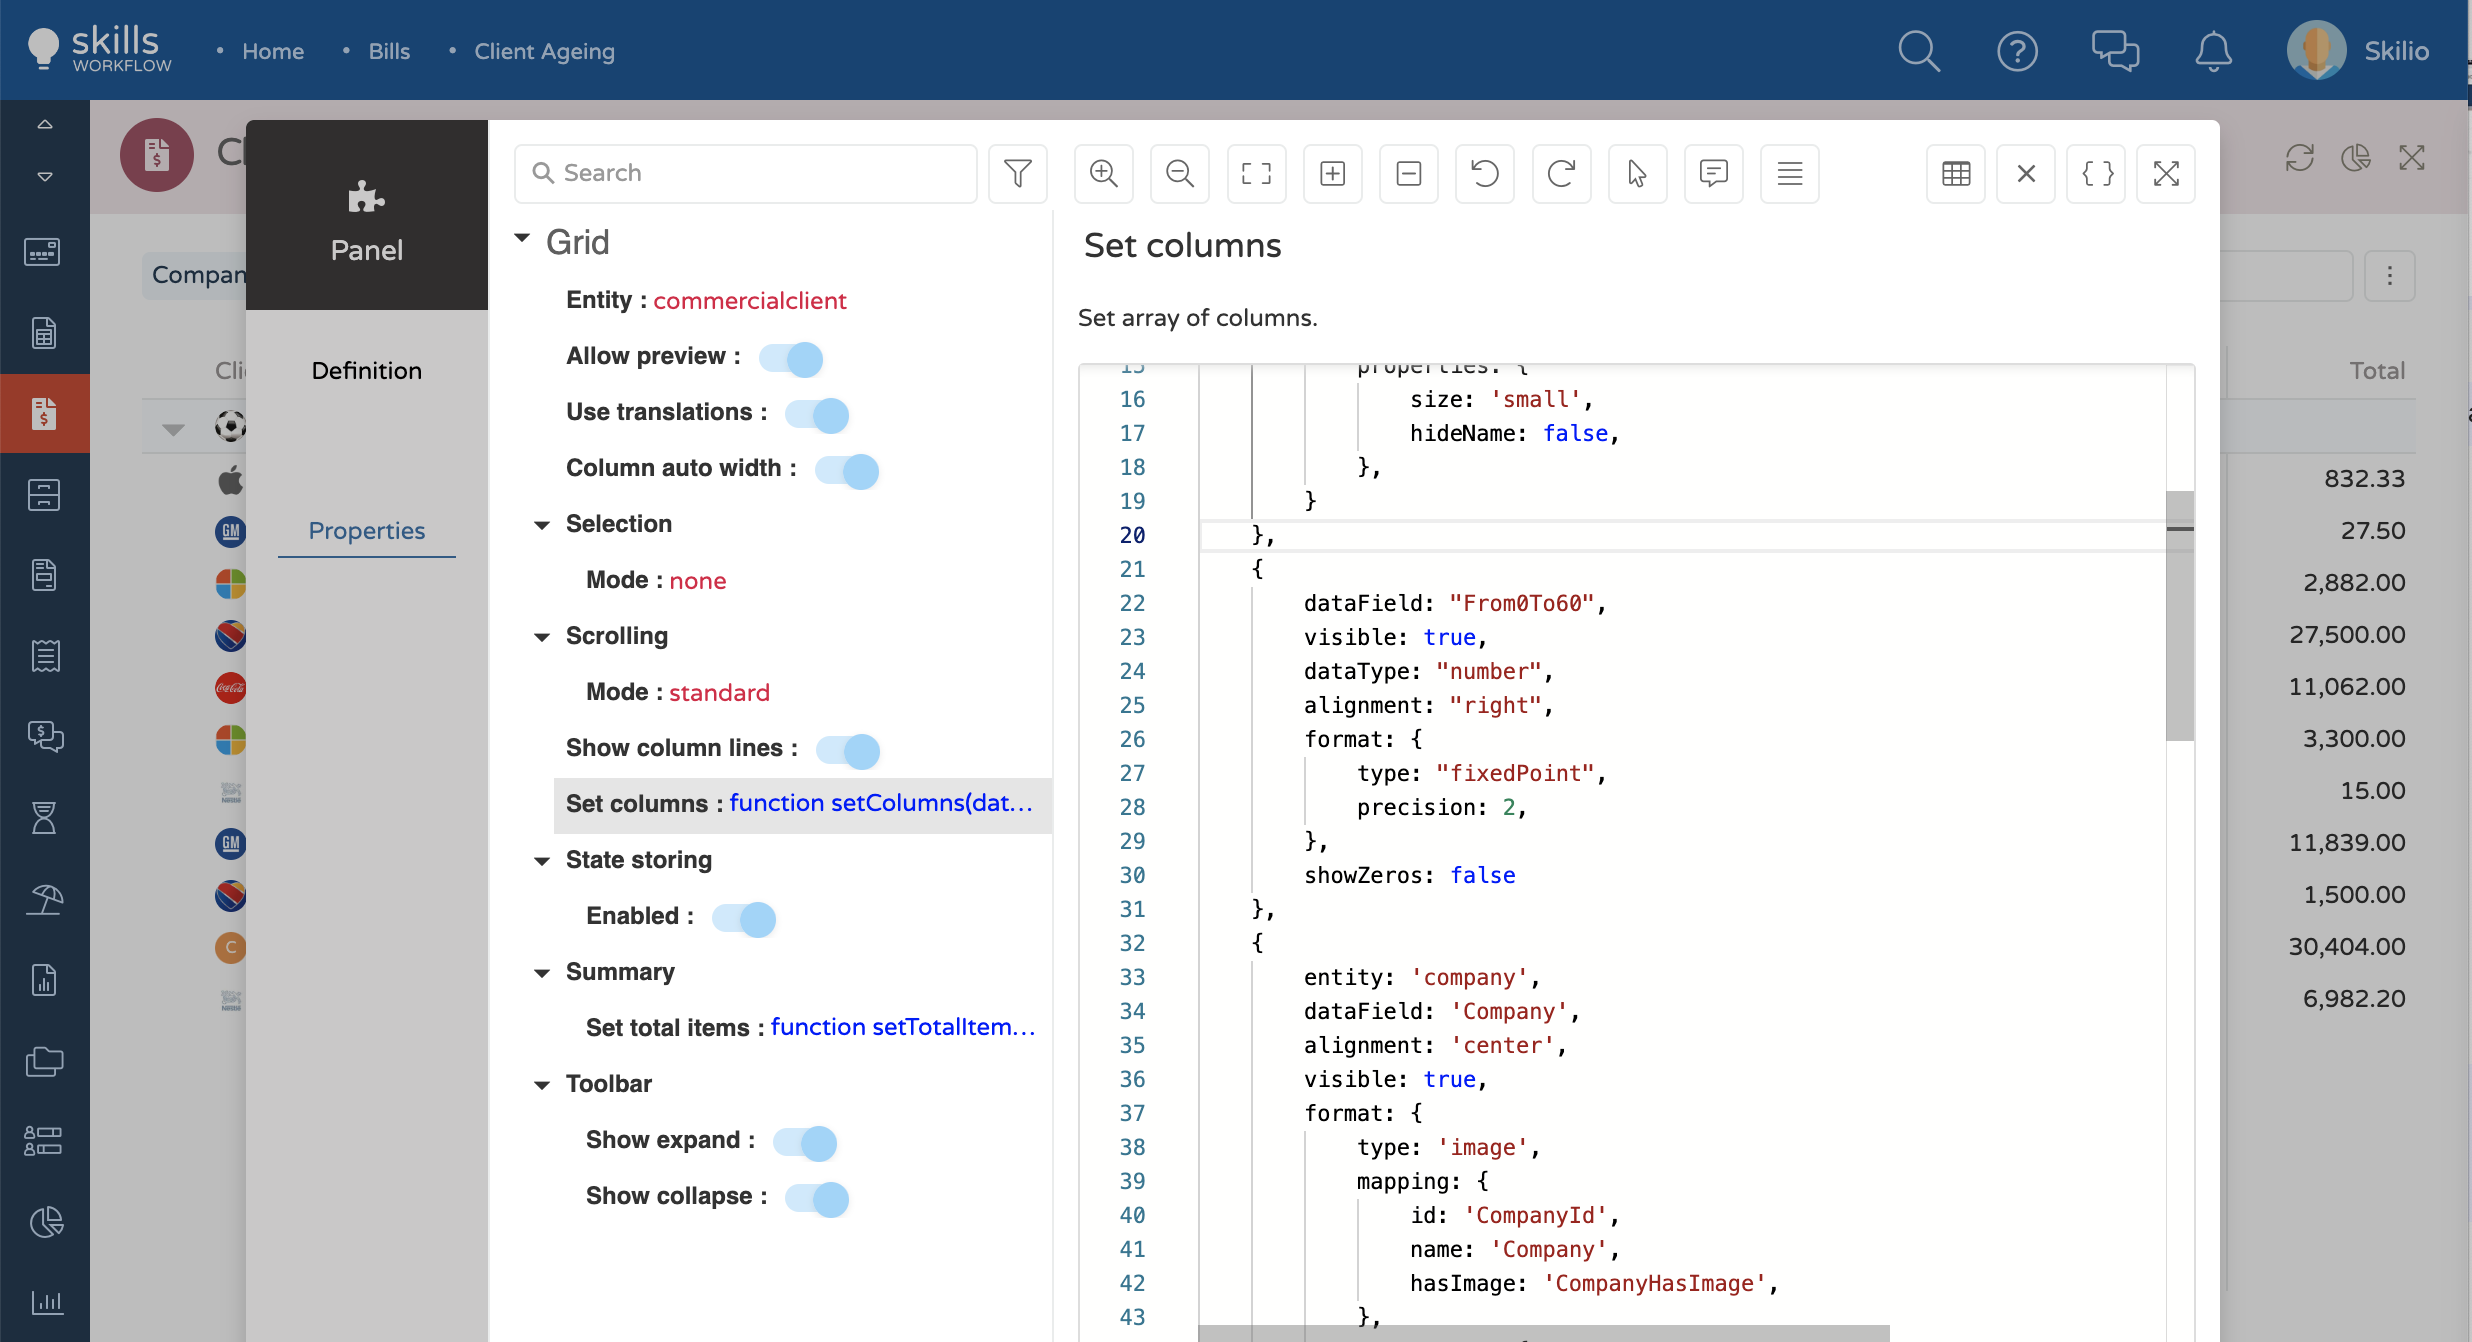
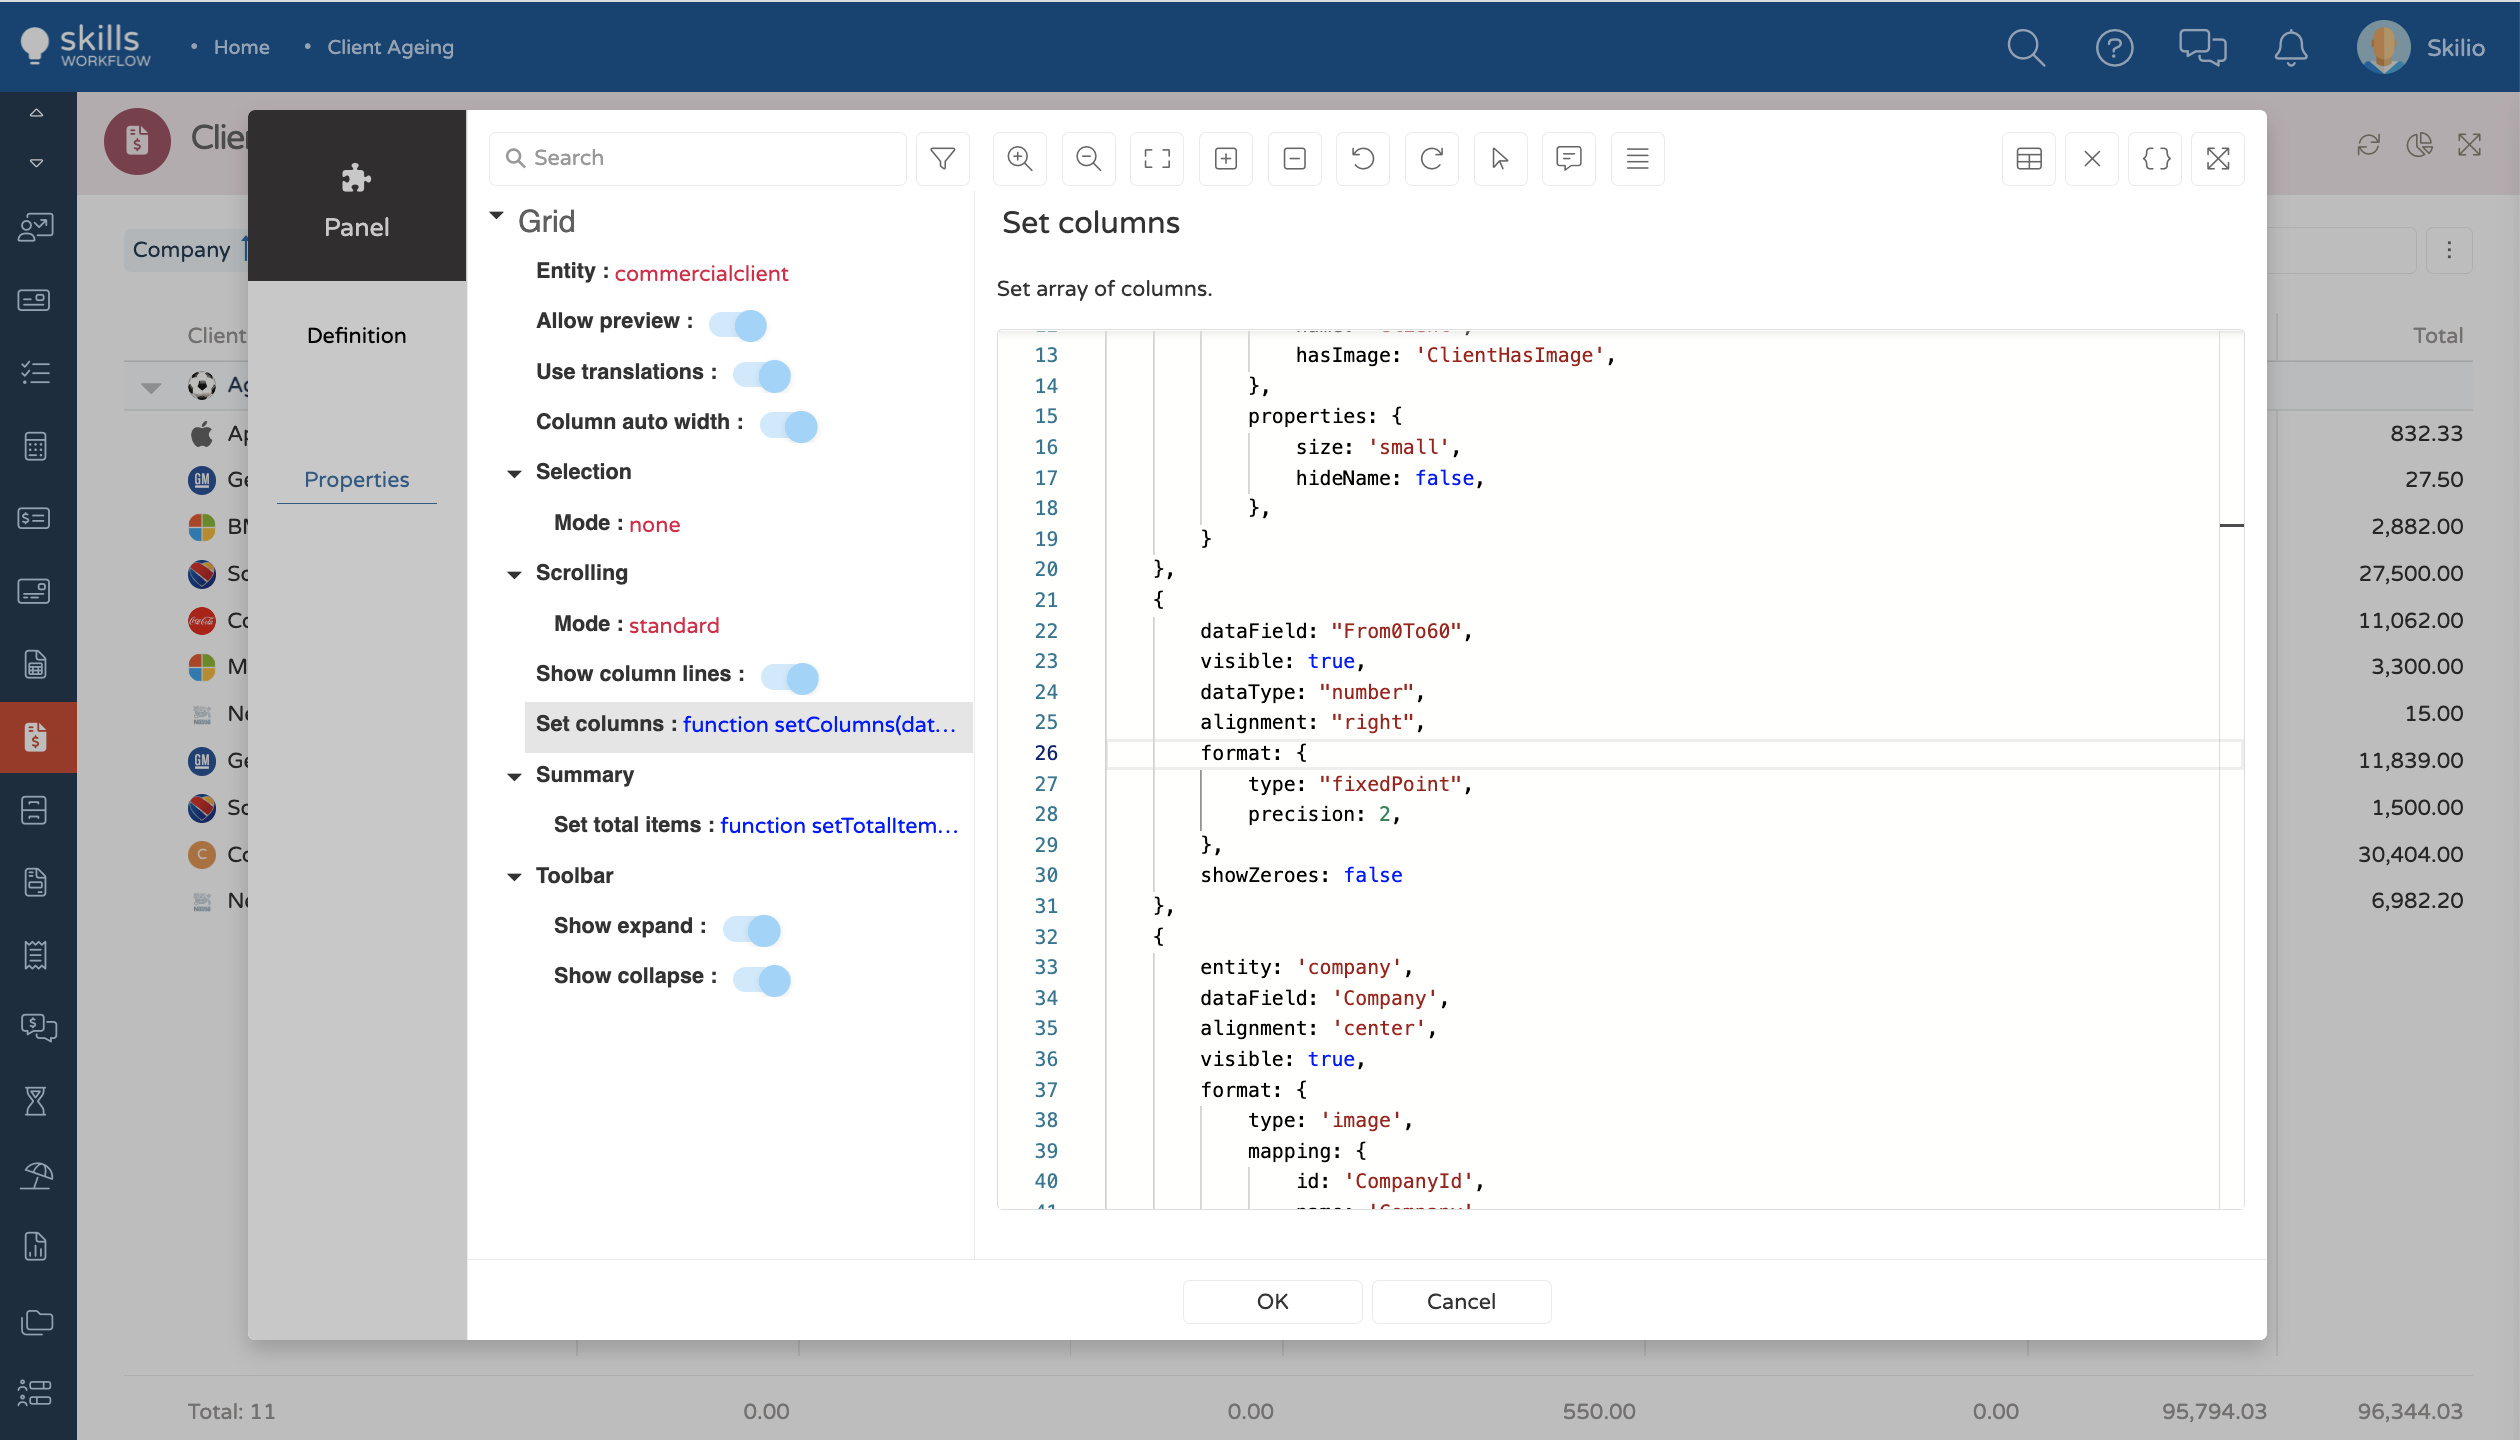
Fixed show zero article

diff --git a/SkillsWorkflow/docs/craft/panels/Definition/info/types/grid/setColumns.md b/SkillsWorkflow/docs/craft/panels/Definition/info/types/grid/setColumns.md
@@ -504,9 +504,9 @@ Type: Boolean
 
 </figure>
 
-## showZeros
+## showZeroes
 
-show or hide the zeros values
+show or hide the zeroes values
 
 Type: Boolean
 
@@ -520,7 +520,7 @@ Type: Boolean
             type: "fixedPoint",
             precision: 2,
         },
-        showZeros: false
+        showZeroes: false
 }
 ```
 
